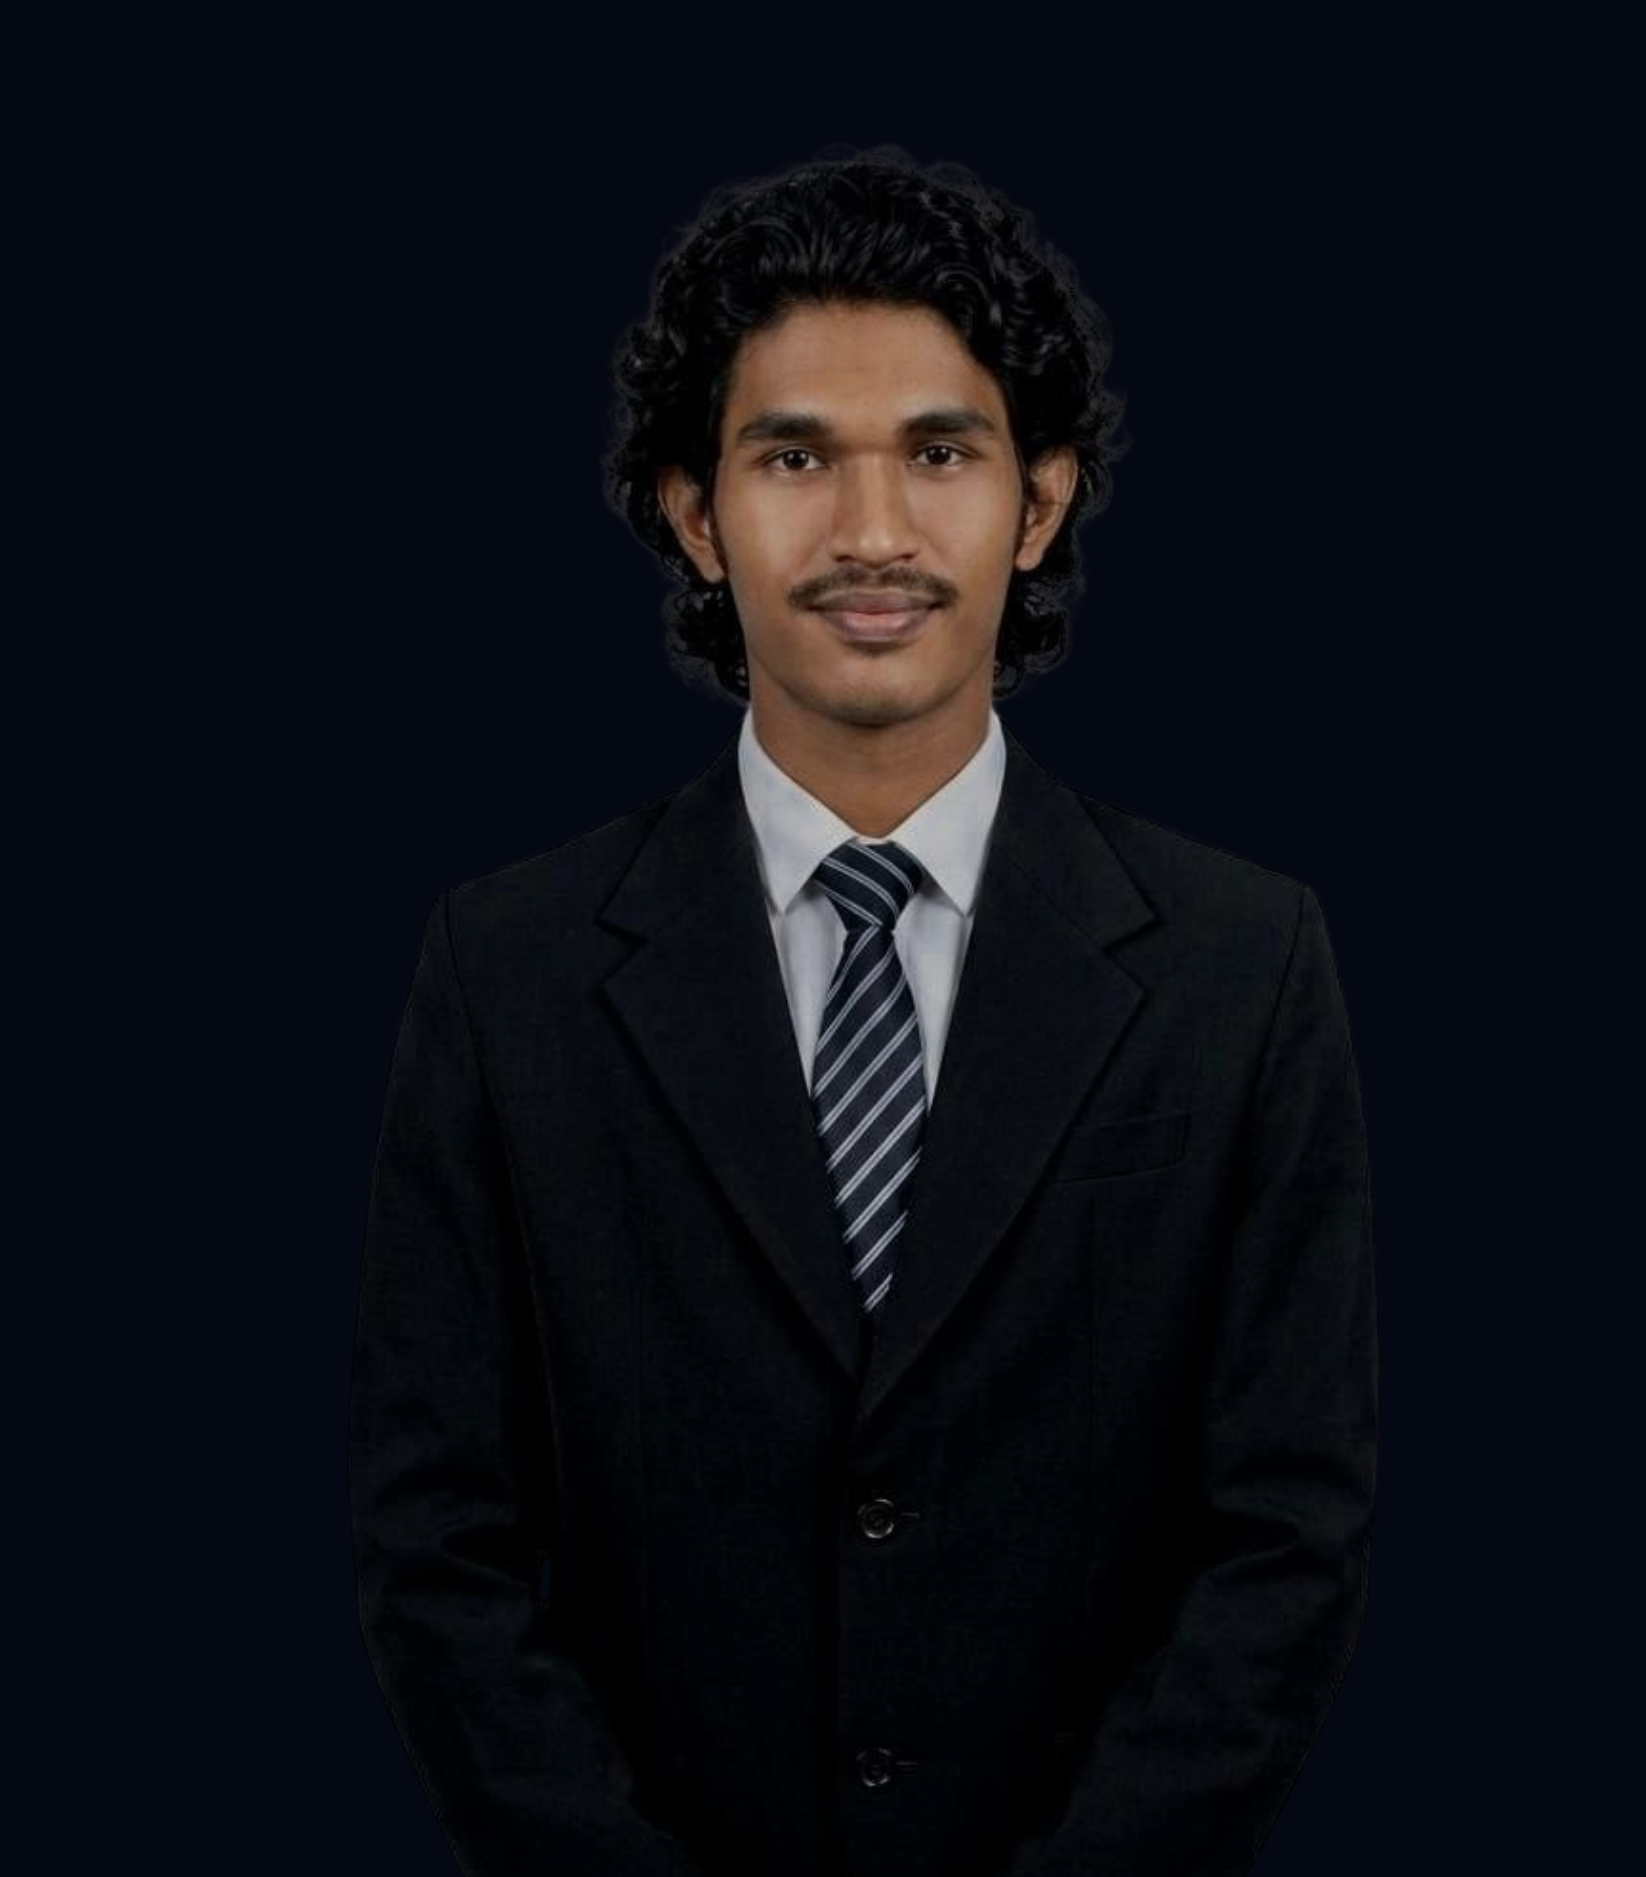
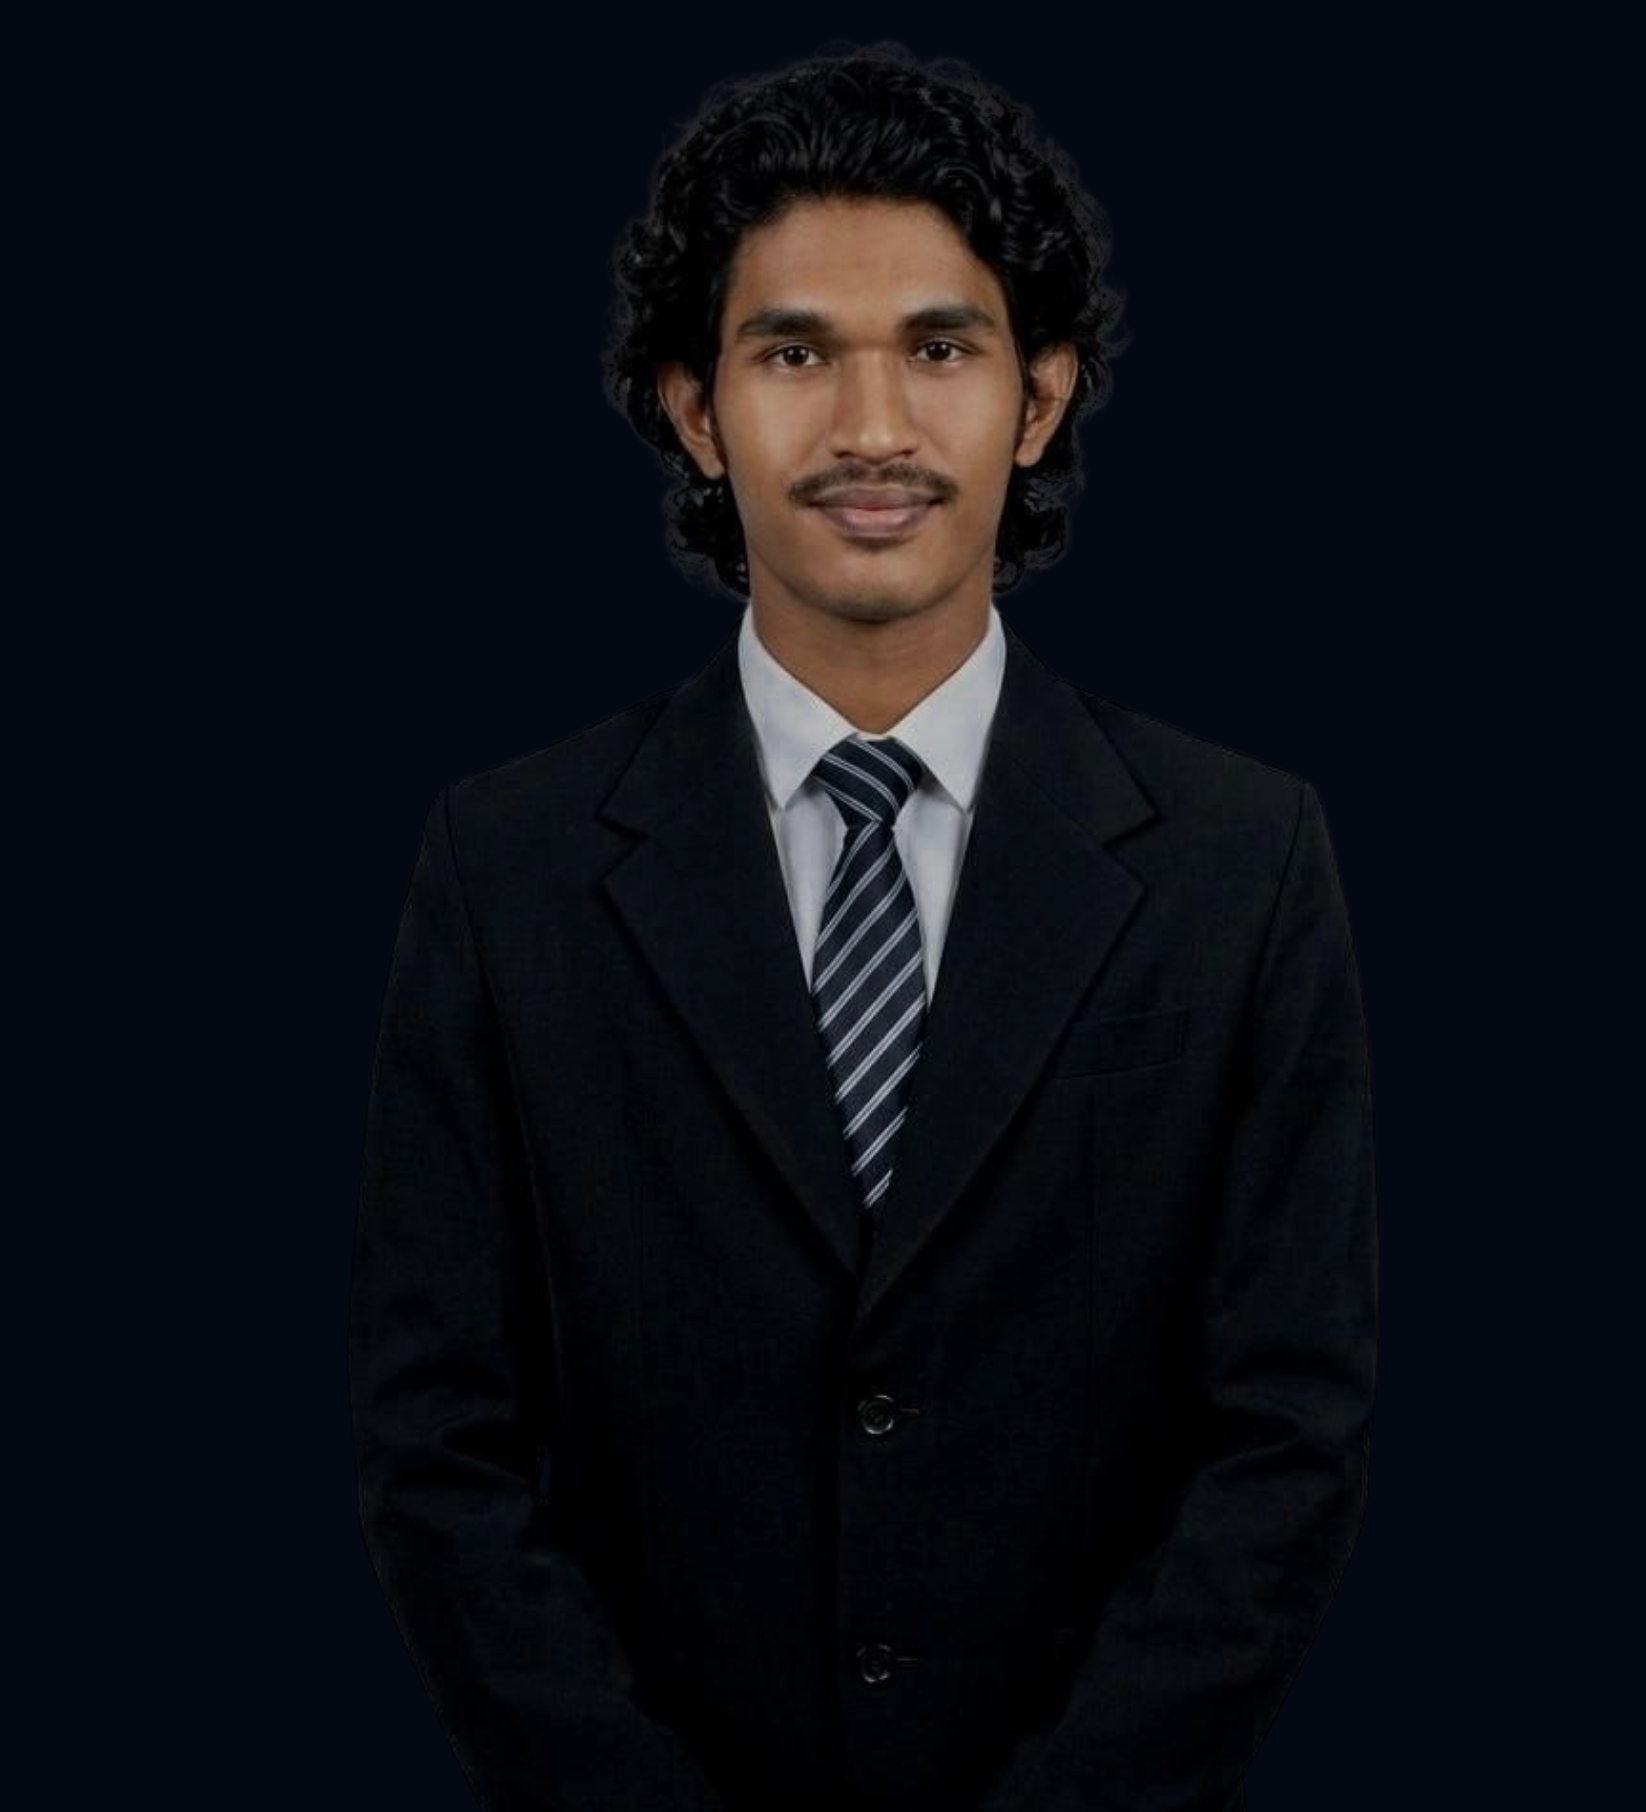
update hero

Changed region(s): [[0.3718, 0.0309, 0.6817, 0.7108], [0.4338, 0.0309, 0.4648, 0.0618]]

diff --git a/my_profectional_portfolio/src/components/Hero.jsx b/my_profectional_portfolio/src/components/Hero.jsx
@@ -7,11 +7,19 @@ export default function Hero() {
     <section className='bg-[#040811]'>
 
       <div className='w-64 mx-auto lg:w-1/2'>
+
+      <dev className='text-white text-8xl'>
+        <p>I solve problems. </p>
+        <p>I craft digital experiences.</p>
+        <p>I think like an engineer.</p>
+        
+      </dev>
+
     <img 
       src={myimg1} 
       alt="my image 1" 
       
-      className='ml-100 mb-20 w-full h-auto object-cover rounded-2xl shadow-lg' 
+      className='ml-120 mb-80 w-full h-auto object-cover rounded-2xl shadow-lg' 
     />
   </div>
 
